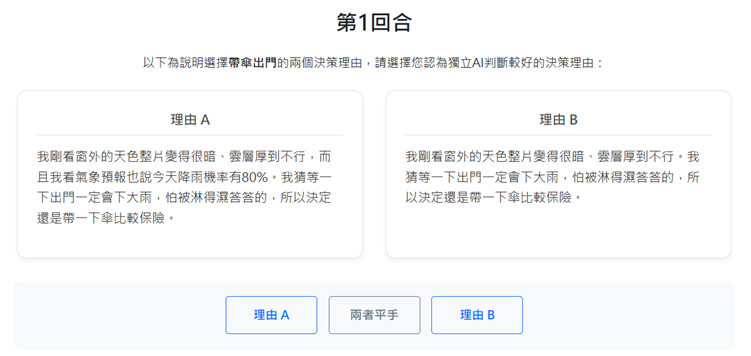
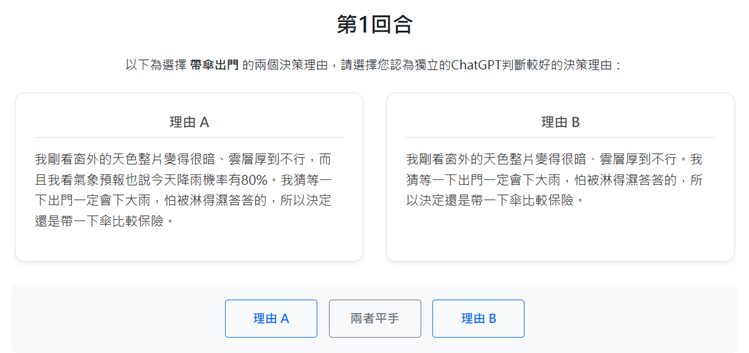
feat. phase1/results.page: provide the correct answer (feedback)
after_questionarie/prediction.page: provide the round number for the reasonings

phase1/__init__.py: update reasoning example 5

diff --git a/after_questionaire/Prediction.html b/after_questionaire/Prediction.html
@@ -61,7 +61,7 @@
 </style>
 
 <h3 class="mb-4 text-center"><b>實驗後問卷第 {{ reasoning_round_num }} 回合</b></h3>
-<p class="mb-4 text-center">以下為在實驗第二部分選擇 <b>數字 {{ target_decision }}</b> 的兩個決策理由，請選擇您認為獨立的ChatGPT判斷較好的決策理由：</p>
+<p class="mb-4 text-center">以下為在實驗第二部分 <b>第 {{round_number}} 回合</b> 選擇 <b>數字 {{ target_decision }}</b> 的兩個決策理由，請選擇您認為獨立的ChatGPT判斷較具體的決策理由：</p>
 
 <div id="time-warning" style="display: none; color: red; font-weight: bold; margin: 10px 0; border: 1px solid red; padding: 10px;">
     請盡快做出預測！

diff --git a/phase1/templates/phase1/Prediction.html b/phase1/templates/phase1/Prediction.html
@@ -61,7 +61,7 @@
 </style>
 
 <h3 class="mb-4 text-center"><b>第{{ player.round_number }}回合</b></h3>
-<p class="mb-4 text-center">以下為選擇 <b>熬夜讀書</b> 的兩個決策理由，請選擇您認為獨立的ChatGPT判斷較好的決策理由：</p>
+<p class="mb-4 text-center">以下為選擇 <b>熬夜讀書</b> 的兩個決策理由，請選擇您認為獨立的ChatGPT判斷較具體的決策理由：</p>
 
 <div id="time-warning" style="display: none; color: red; font-weight: bold; margin: 10px 0; border: 1px solid red; padding: 10px;">
     請盡快做出預測！

diff --git a/phase1/templates/phase1/Results.html b/phase1/templates/phase1/Results.html
@@ -41,6 +41,7 @@
         {% endif %}
     </div>
 
+<p>獨立ChatGPT的判斷結果為：<b>{{ answer_text }}</b></p>
 <p>此回合您的預測：<b>{{ result_text}}</b> </p>
 <p>您的報酬為：<b>{{ player.payoff }}</b> 法幣</p>
 

diff --git a/phase1/__init__.py b/phase1/__init__.py
@@ -16,7 +16,7 @@ class C(BaseConstants):
             2: "明天有期中考，而我目前還有兩個章節沒讀。雖然熬夜很累，但至少能把重點看完，所以我決定先讀完再睡。",
             3: "明天有期中考，而我目前還有兩個章節沒讀。如果現在睡覺，明天早上很可能來不及複習，所以我決定先讀完再睡。",
             4: "明天有期中考，我覺得現在還需要再準備一下。雖然熬夜很累，但至少能把重點看完，所以我決定先讀完再睡。",
-            5: "明天有期中考，而我目前還有兩個章節還沒讀完，進度其實有點落後。如果現在就直接去睡覺，明天早上能用來複習的時間應該會不夠，很可能來不及把這兩個章節的重點再看過一遍。雖然熬夜讀書一定會讓人覺得很累，精神也可能沒有那麼好，但至少還能把重要的內容先讀完、心裡比較有底。綜合考量時間與準備程度之後，我還是決定先把剩下的部分讀完，再去休息睡覺。",
+            5: "我剛看窗外的天色整片變得很暗，就跟牛排不小心烤太焦的時候差不多黑，而且雲層厚到不行，讓我想到我早上吃的厚切吐司，吃起來非常軟，只可惜這麼厚的雲層不會讓我有想要吃他的慾望。而且我看氣象預報也說今天降雨機率有80%，順帶一提播報的主播長得很好看。我猜等一下出門一定會下大雨，大概是大到外國人來會說raining cats and dogs的程度，怕被淋得濕答答的，可能會變成落湯雞，有狗又有雞只差猴子就能打鬼了。為了避免這種情況，所以決定還是帶一下傘比較保險。",
             6: "我剛看窗外的天色整片變得很暗、雲層厚到不行，而且我看氣象預報也說今天降雨機率有80%。我猜等一下出門一定會下大雨，怕被淋得濕答答的，所以決定還是帶一下傘比較保險。",
             7: "我剛看窗外的天色整片變得很暗、雲層厚到不行。我猜等一下出門一定會下大雨，怕被淋得濕答答的，所以決定還是帶一下傘比較保險。"
         }
@@ -91,10 +91,19 @@ class Results(Page):
         reason_a, reason_b = C.round_reasonings.get(player.round_number)
         result_text = "正確" if player.is_correct else "錯誤"
 
+        correct_answer = C.Correct_Prediction[player.round_number - 1]
+        if correct_answer == "A":
+            answer_text = "理由A"
+        elif correct_answer == "B":
+            answer_text = "理由B"
+        elif correct_answer == "Tie":
+            answer_text = "兩者平手"
+
         return {
             "reason_a": reason_a,
             "reason_b": reason_b,
-            "result_text": result_text
+            "result_text": result_text,
+            "answer_text": answer_text
         }
 
 class ResultsWaitPage(WaitPage):

diff --git a/phase_AI/__init__.py b/phase_AI/__init__.py
@@ -124,9 +124,7 @@ def gpt_generate(round_number, participant_decision):
                 * You may think strategically, but do not fully formalize or optimize the reasoning.* Use natural, conversational language.
                 * Some uncertainty is allowed (e.g., “I guess”, “maybe”, “probably”).
                 * The reasoning should not look highly sophisticated or mathematically complete.
-                * The reasoning should be in accordance with the provided round number:
-                    * For round 1, the reasoning should not mention the past round decision history as there is none.
-                    * For later rounds, the reasoning could be backward-looking.
+                * The reasoning should be in accordance with the provided round number.
 
         ### Experimental Rules:
             * Part II consists of 10 rounds. At the beginning, the computer randomly divides all participants into two equal groups.

diff --git a/after_questionaire/__init__.py b/after_questionaire/__init__.py
@@ -122,6 +122,7 @@ class Prediction(Page):
         reasoning_round_num = C.reasoning_rounds.index(player.round_number) + 1
 
         return {
+            "round_number": player.round_number,
             "target_id": player.target_participant_id,
             "target_decision": target_decision,
             "reason_a": reason_a,

diff --git a/To-Do.md b/To-Do.md
@@ -233,7 +233,34 @@ To-Do:
 
 2/20
 
-- 第一部分、實驗後問卷提供正確答案
+- <del>第一部分提供正確答案</del>
   -> 實驗後問卷是否要提供正確答案(feedback) 
-- 實驗後問卷提供受試者理由為第幾回合
-- gpt_generate寫的理由須為對應回合
+  ![alt text](image-5.png)
+- <del>實驗後問卷提供受試者理由為第幾回合</del>
+- <del>gpt_generate寫的理由須為對應回合</del>
+  -> 目前的問題：第一回合生成的理由較弱/後續回合生成理由較佳
+- ppt放實驗截圖
+
+
+## 整理目前的重大更新：
+
+- 實驗說明大更新
+  - 決策數字贏家
+  - 一般回合 vs 額外說明回合 (額外說明回合是否要改名？)
+
+- gpt_generate削弱，並根據回合數調整生成的理由內容，但未提供回合歷史
+- 法幣匯率訂為0.5新台幣，受試者(未認真寫理由的debug版本)可獲得含車馬費約300新台幣(200-550)
+
+- 實驗頁面更新：
+  - 第一部分：
+    - 受試者會看到理由的選擇為何
+    ![alt text](image-1.png)
+    - 目前的題目出法：資訊與信念較少、具體程度較低（三項標準皆較低）、字數較多但評價相近（不考慮雜訊）
+    - 受試者在results.page會看到正確答案 -> 實驗後問卷是否也要提供正確答案？
+  - 第二部分：
+    - alpha test: 受試者一次只會更新一回合的判斷結果、同時呼叫api
+    - 現版本：一次看到所有額外說明回合判斷結果、分散呼叫api（14人的等待時間待測試）
+    - phase_AI可以看到該回合是否為決策數字贏家、判斷結果、該回合最終報酬、第二部分最終報酬
+    ![alt text](image-4.png)
+  - 實驗後問卷：
+    - prediction.page提供回合數和決策數字
